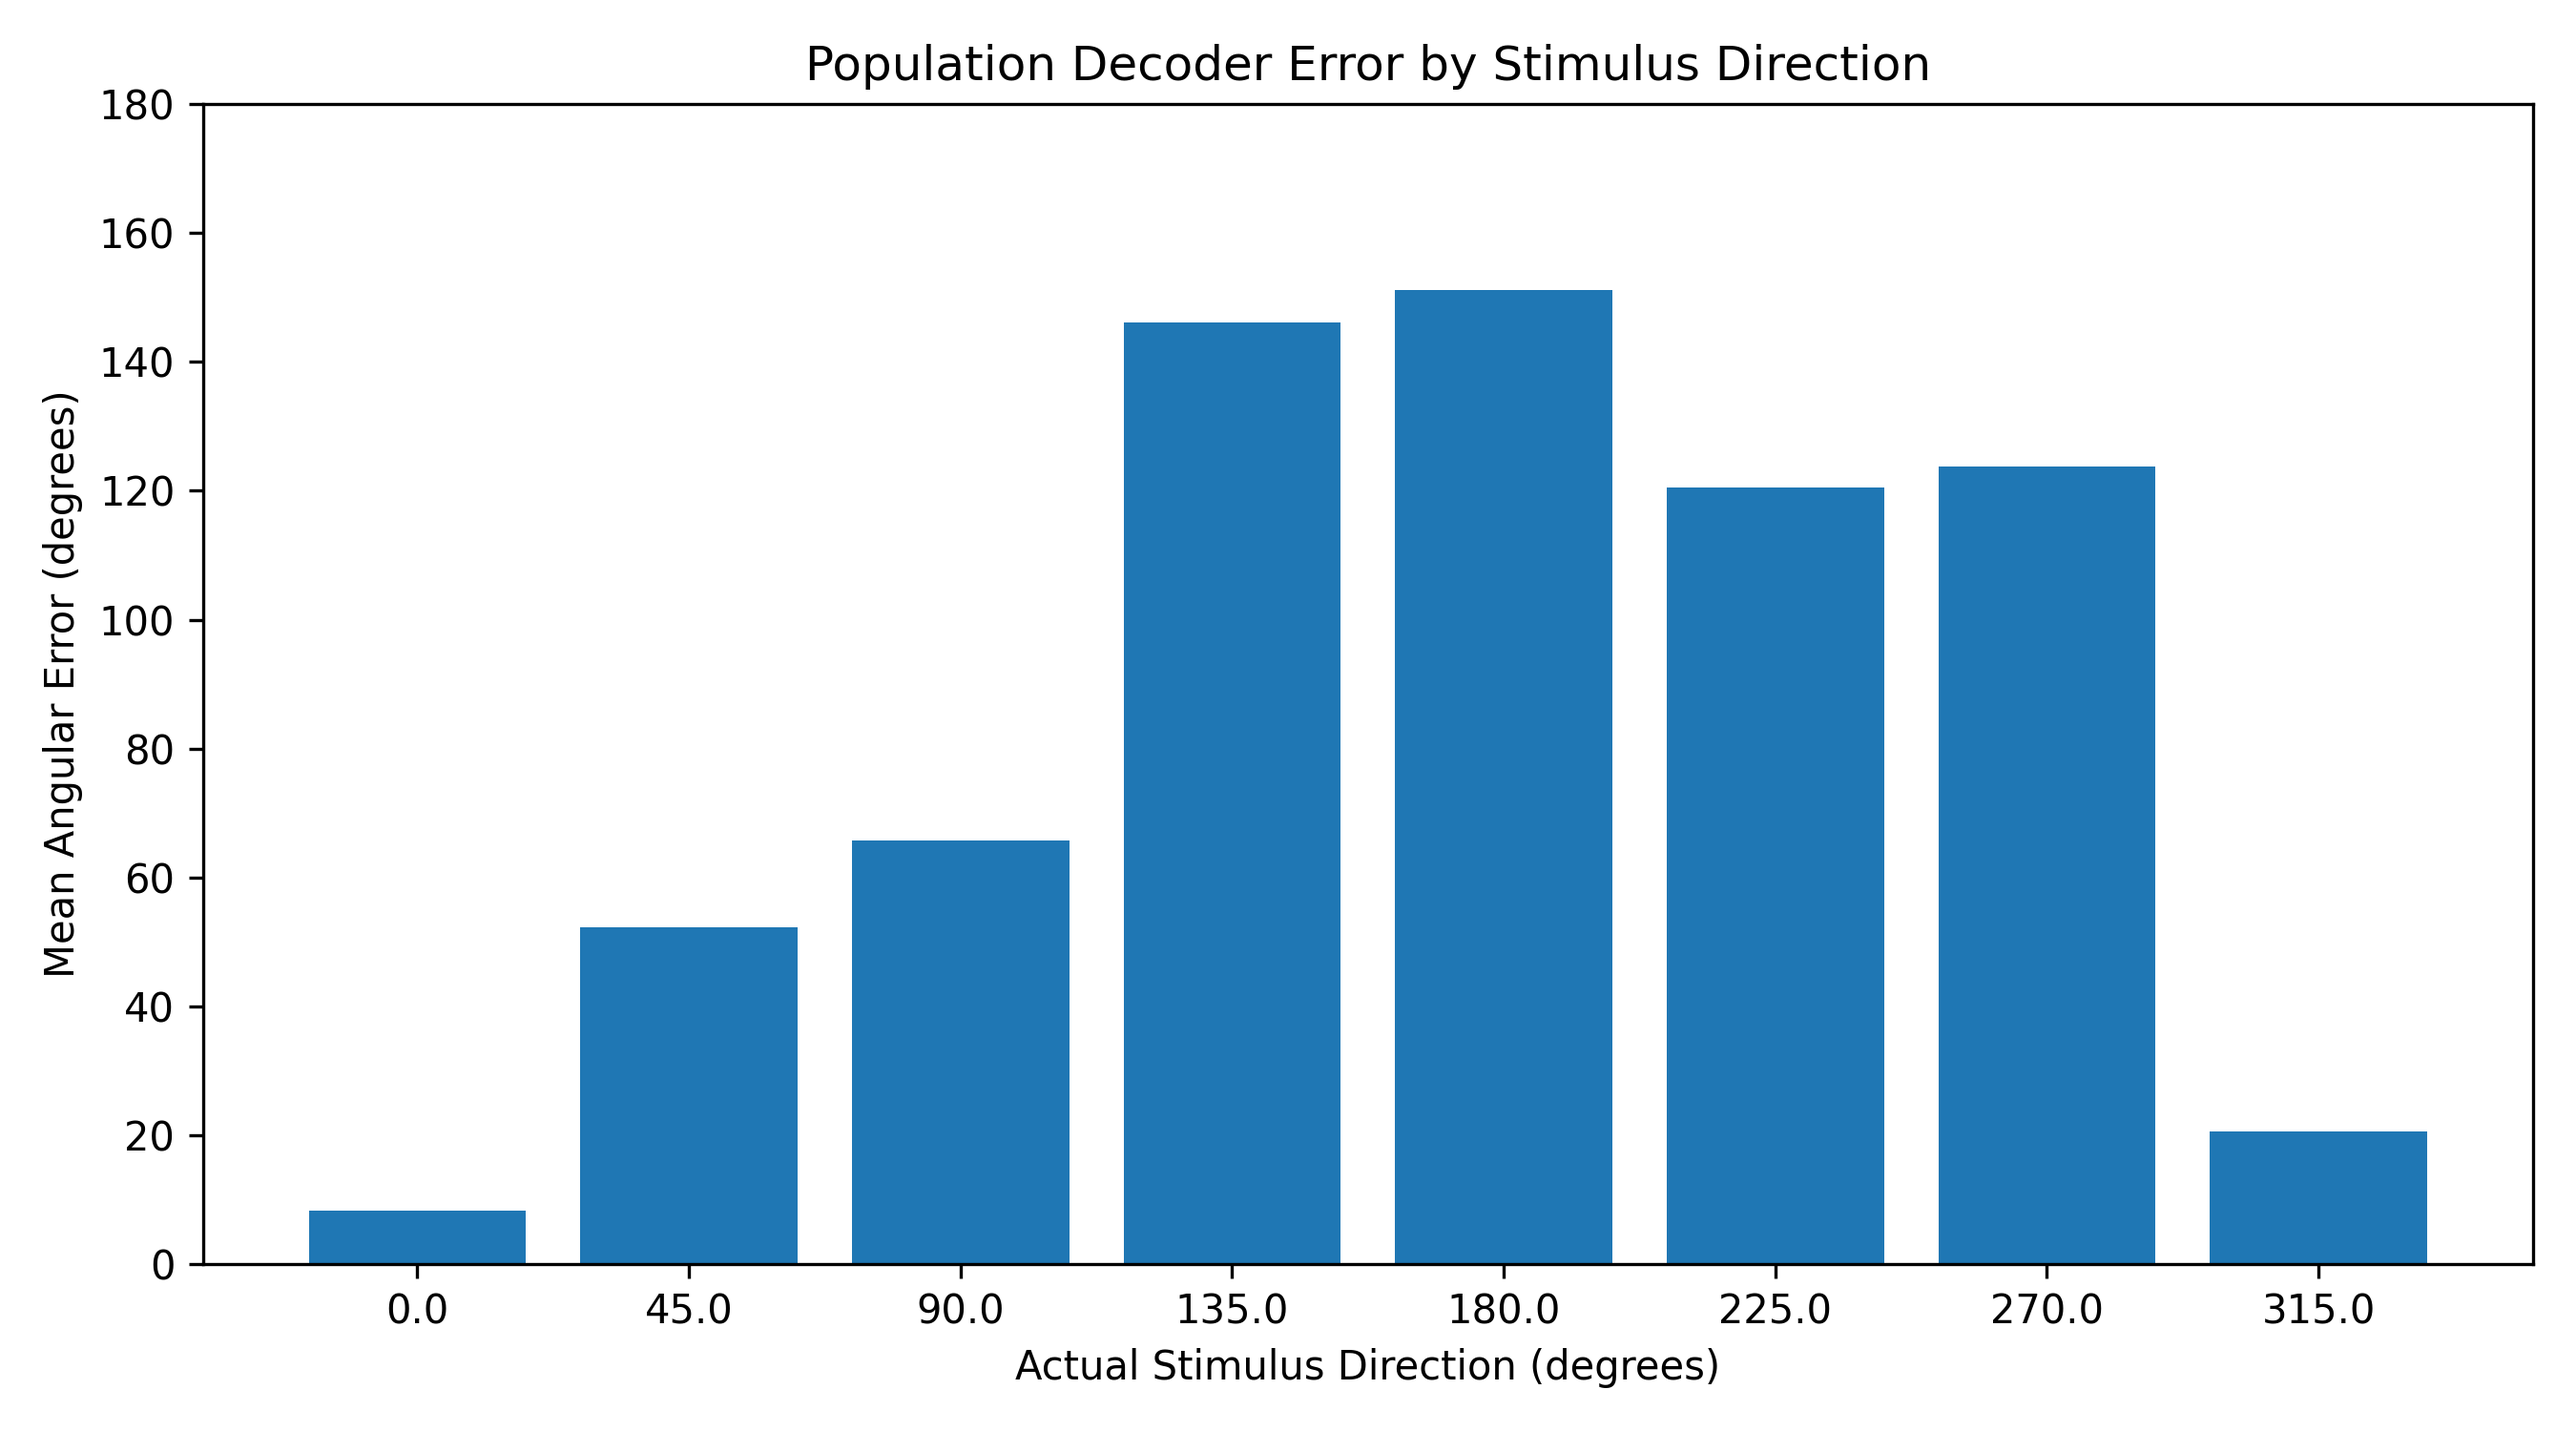
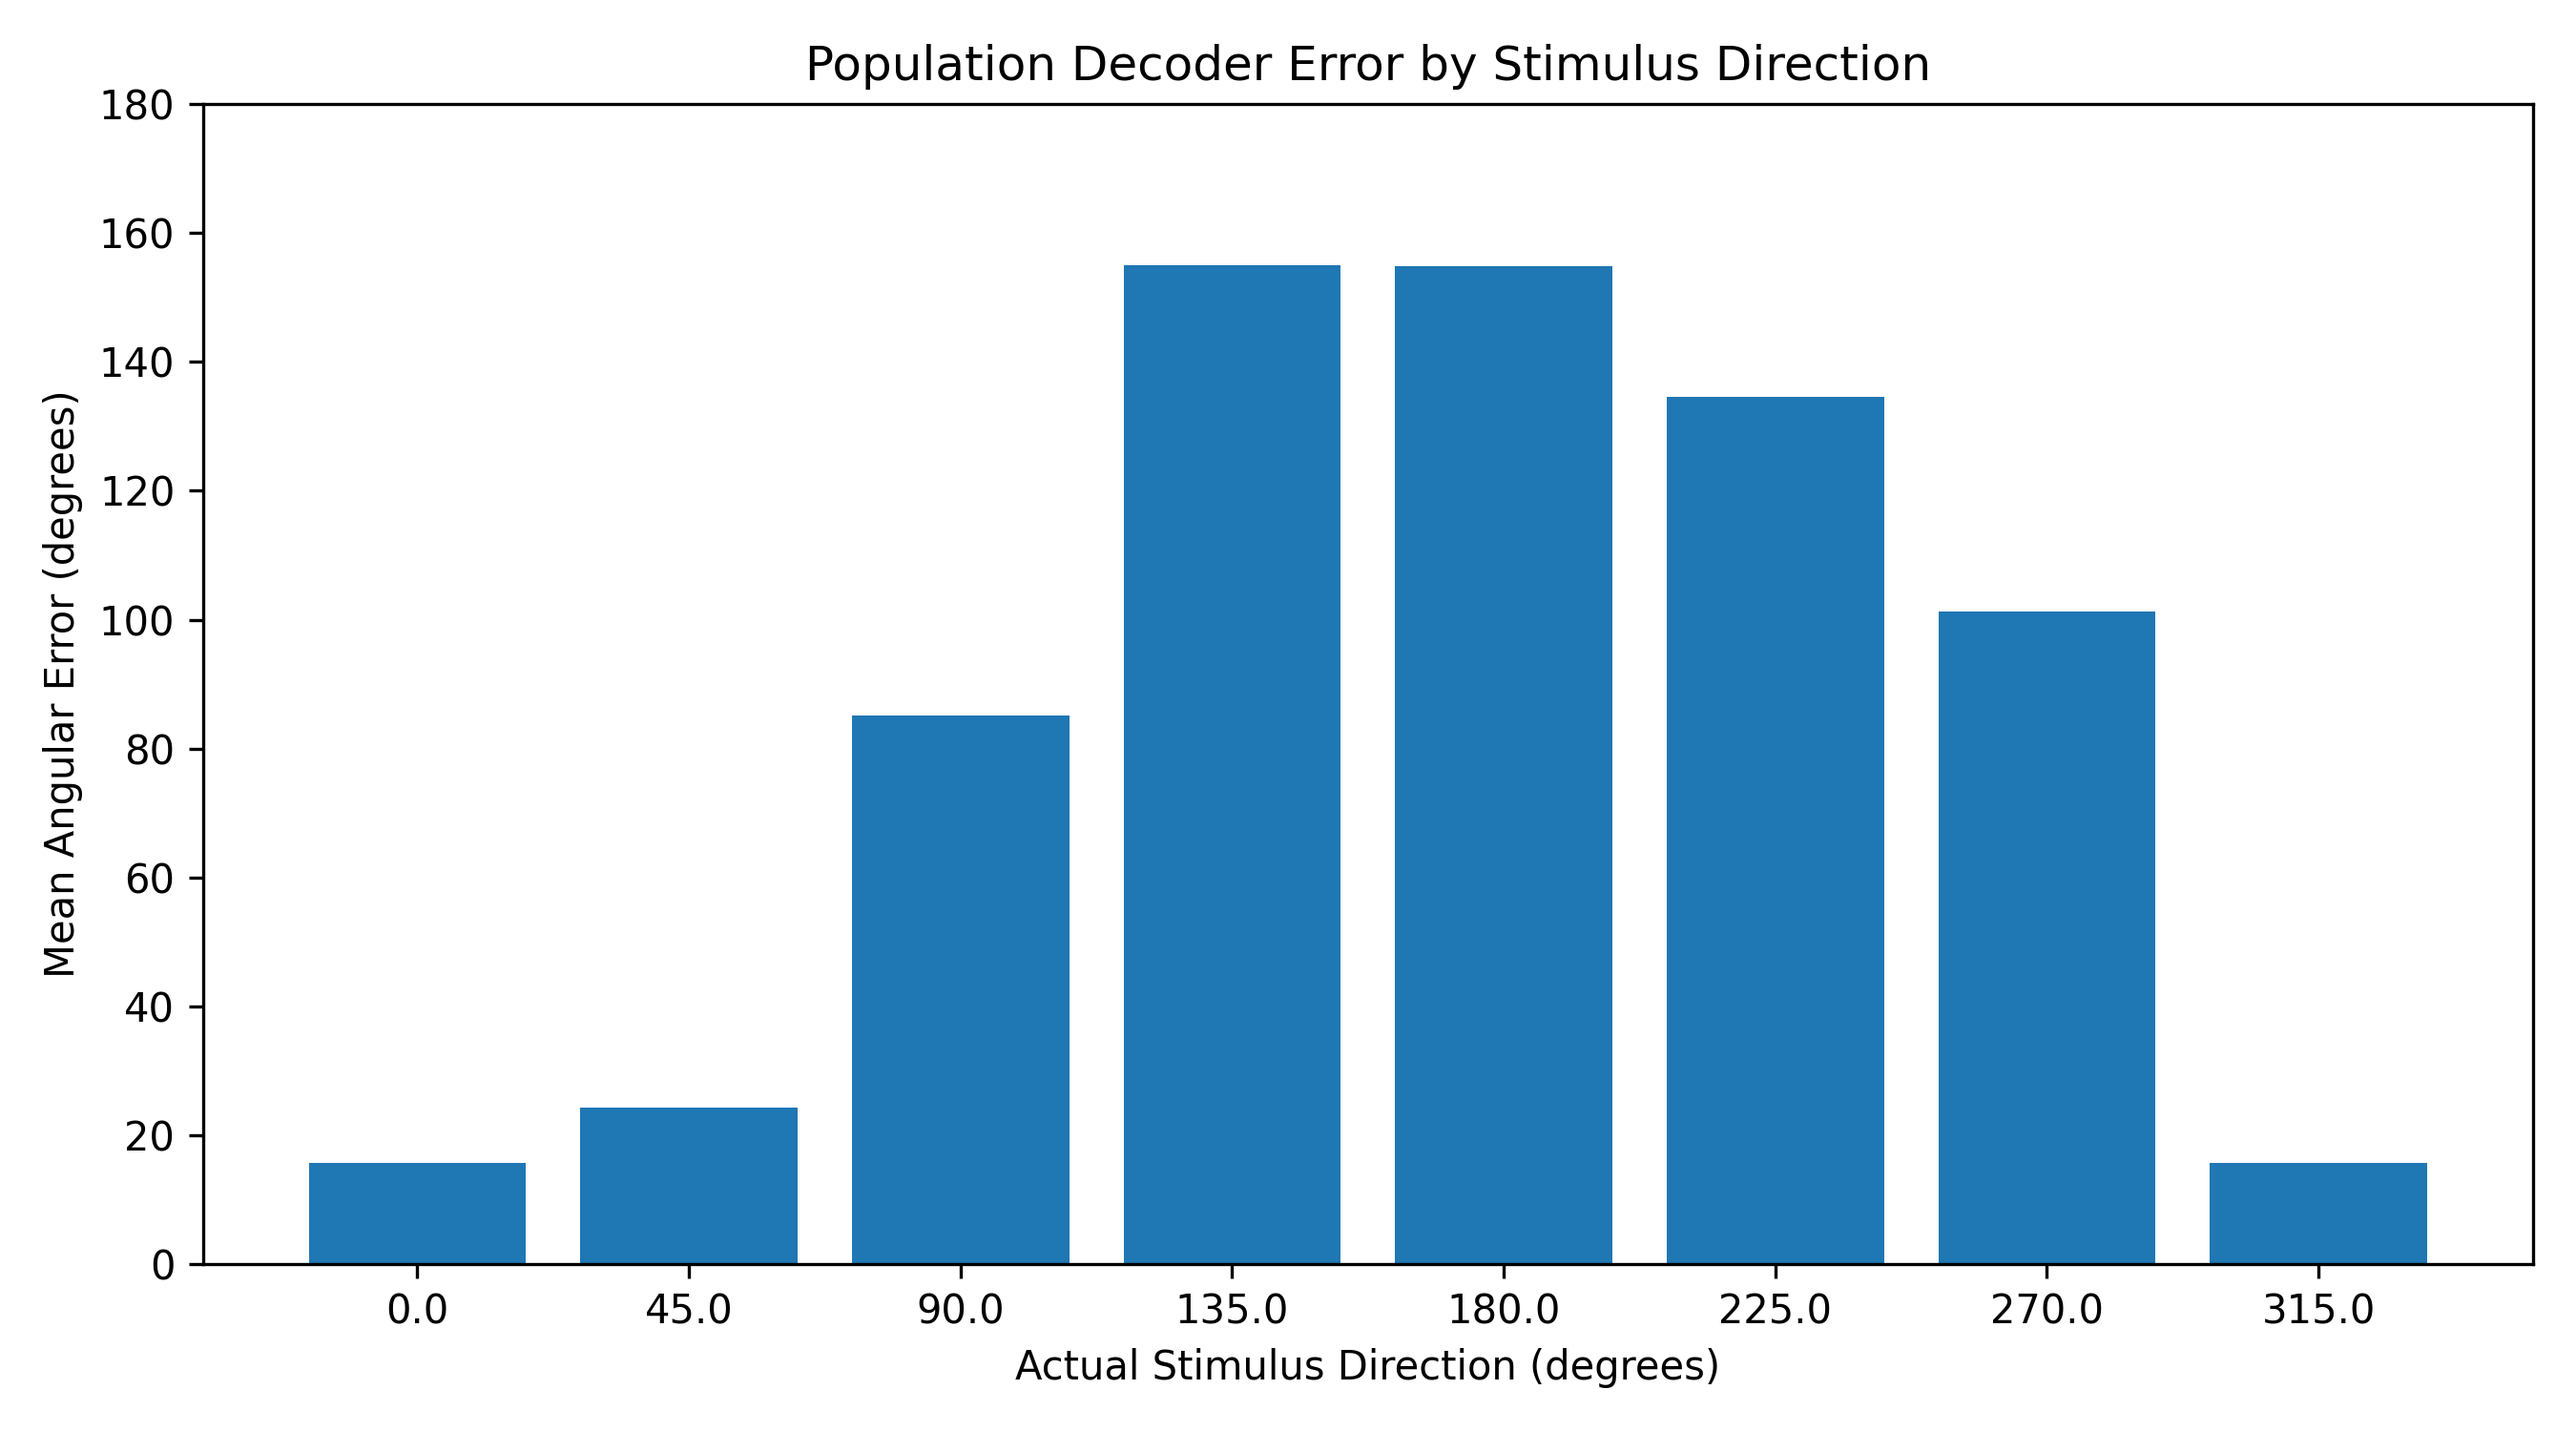
Analyse decoder

diff --git a/main.py b/main.py
@@ -3,13 +3,16 @@ from src.tuning import calculate_tuning
 from src.tuning import calculate_tuning, calculate_dsi
 from src.visualization import plot_tuning,plot_direction_errors
 from src.decoding import get_pref_dir,population_vector_decode
+from sklearn.metrics import confusion_matrix
+import matplotlib.pyplot as plt
 import numpy as np
 import pandas as pd 
 def main():
     dataset, timestamps, dff, stim_table = load_data()
     print("Fluorescence shape:", dff.shape)
     print("Stimulus presentations:", len(stim_table))
-
+    num_neurons = dff.shape[0]
+    print("Number of neurons:", num_neurons)
     means, stds = calculate_tuning(dff[0], stim_table)
     print("Neuron 0 mean responses:", means)
     print("Neuron 0 standard deviations:", stds)
@@ -31,6 +34,73 @@ def main():
     test_stims = valid_stims.iloc[split_idx:]
     print("Training presentations:", len(train_stims))
     print("Testing presentations:", len(test_stims))
+    preferred_directions = get_pref_dir(dff, train_stims, num_neurons=num_neurons)    
+
+    train_responses = []
+    for _, stim in train_stims.iterrows():
+        start = int(stim["start"])
+        end = int(stim["end"])
+        mean_responses = np.mean(dff[:, start:end], axis=1)
+        train_responses.append(mean_responses)
+    train_responses =  np.array(train_responses)
+    print("Training response shape:", train_responses.shape)
+
+    training_baselines = np.mean(train_responses, axis=0)
+    centered_train = train_responses - training_baselines
+    max_responses = np.max(centered_train, axis=0)
+    safe_max = np.where(max_responses <= 0, 1, max_responses)
+    normalized_train = centered_train / safe_max
+    print("Normalized training shape:", normalized_train.shape)
+    print("First 5 normalization factors:", safe_max[:5])
+
+    test_responses = []
+    for _, stim in test_stims.iterrows():
+        start = int(stim["start"])
+        end = int(stim["end"])
+        mean_responses = np.mean(dff[:, start:end], axis=1)
+        test_responses.append(mean_responses)
+    test_responses = np.asarray(test_responses)
+    centered_test = test_responses - training_baselines
+    normalized_test = centered_test / safe_max
+    print("Normalized test shape:", normalized_test.shape)
+
+    normalized_predictions = []
+
+    for response in normalized_test:
+        decoded = population_vector_decode(
+            response,
+            preferred_directions
+        )
+        normalized_predictions.append(decoded)
+    normalized_predictions = np.asarray(normalized_predictions)
+    print("First 5 normalized predictions:", normalized_predictions[:5])
+    print("NaN count:", np.isnan(normalized_predictions).sum())
+
+    rounded_normalized = (np.round(normalized_predictions / 45) * 45) % 360
+    valid_normalized = ~np.isnan(rounded_normalized)
+    actual_valid = np.asarray(test_stims["orientation"])[valid_normalized]
+    predicted_valid = rounded_normalized[valid_normalized]
+    normalized_accuracy = np.mean(actual_valid == predicted_valid) * 100
+
+    print("Normalized decoder accuracy:", normalized_accuracy)
+    print("Valid normalized predictions:", valid_normalized.sum())
+
+    baseline_predictions = []
+    for response in centered_test:
+        decoded = population_vector_decode(
+            response,
+            preferred_directions
+        )
+        baseline_predictions.append(decoded)
+    baseline_predictions = np.asarray(baseline_predictions)
+    rounded_baseline = (np.round(baseline_predictions / 45) * 45) % 360
+    valid_baseline = ~np.isnan(rounded_baseline)
+    actual_baseline = np.asarray(test_stims["orientation"])[valid_baseline]
+    predicted_baseline = rounded_baseline[valid_baseline]
+    baseline_accuracy = np.mean(actual_baseline == predicted_baseline) * 100
+    print("Fair baseline accuracy:", baseline_accuracy)
+    print("Normalized accuracy:", normalized_accuracy)
+
     baseline_direction = train_stims["orientation"].mode()[0]
     print("Baseline direction:", baseline_direction)
     baseline_errors = []
@@ -42,7 +112,7 @@ def main():
     baseline_mean_error = np.mean(baseline_errors)
     print("Baseline mean error:", baseline_mean_error)
 
-    num_neurons = 50
+    
     preferred_directions = get_pref_dir(dff, train_stims, num_neurons=num_neurons)    
     print("Preferred directions:", preferred_directions)
     unique_dirs, counts = np.unique(preferred_directions,return_counts=True)
@@ -128,5 +198,45 @@ def main():
         direction_errors.append(avg_mean_err)
         print("Average mean error:", avg_mean_err)
     plot_direction_errors(unique_test_dirs, direction_errors)
-if __name__ == "__main__":
+
+    print("Actual directions:", actual_directions[:10])
+    print("Predicted directions:", decoded_directions[:10])
+    print("Number of predictions:", len(decoded_directions))
+
+    redicted_array = np.array(decoded_directions)
+    rounded_predictions = []
+    for d in decoded_directions:
+        rounded = (np.round(d/45) * 45) %360
+        rounded_predictions.append(rounded)
+    print("Rounded predictions:", rounded_predictions[:10])
+    print("Number of rounded predictions:", len(rounded_predictions))
+    rounded_array = np.array(rounded_predictions)
+
+    print("NaN count:", np.isnan(rounded_array).sum())
+    print("NaN indices:", np.where(np.isnan(rounded_array))[0])
+    print("NaN actual directions:", np.array(actual_directions)[np.isnan(rounded_array)])
+
+    valid_mask = ~np.isnan(rounded_array)
+
+    valid_actual = np.array(actual_directions)[valid_mask]
+    valid_predicted = rounded_array[valid_mask]
+    cm = confusion_matrix(
+    valid_actual,
+    valid_predicted,
+    labels=orientations
+    )
+    print("Confusion Matrix:")
+    print(cm)
+
+
+    comparison = pd.DataFrame({
+    "Model": ["Baseline", "Normalized"],
+        "Accuracy": [baseline_accuracy, normalized_accuracy]
+    })
+
+    comparison.to_csv("results/metrics_day4.csv", index=False)
+
+    print("Day 4 results saved!")
+
+if __name__ ==  "__main__":
     main()

diff --git a/docs/research_log.md b/docs/research_log.md
@@ -107,3 +107,21 @@ I evaluated the population vector decoder separately for each drifting-grating d
 **Visualization:** `results/figures/direction_errors.png`
 
 **Next steps:** Investigate direction selectivity and compare the population vector approach against an alternative decoding method.
+
+## Experiment 4 — Confusion Matrix and Normalization
+
+Today I looked at which directions the decoder was getting right and wrong. I made a confusion matrix and found that it was predicting 0° a lot, even when the actual direction was different.
+
+I also tried normalizing the neurons' responses to see if that would improve accuracy.
+
+**Results:**
+
+- Original decoder: 27.73%
+- Baseline-corrected decoder: 29.41%
+- Normalized decoder: 21.85%
+
+Normalization actually made the decoder worse. This might mean that neurons with stronger responses are giving us useful information, and scaling them down makes predictions less accurate.
+
+I also had to fix some Python errors and handle one prediction that returned NaN.
+
+**Next:** Try a different decoding method and see if we can get better accuracy, especially for directions between 135° and 270°.
